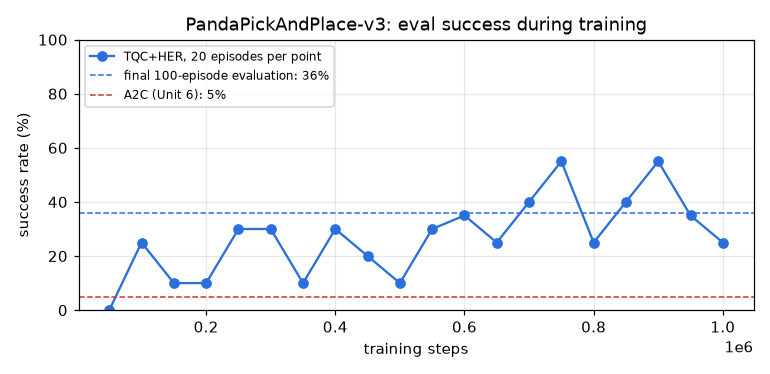
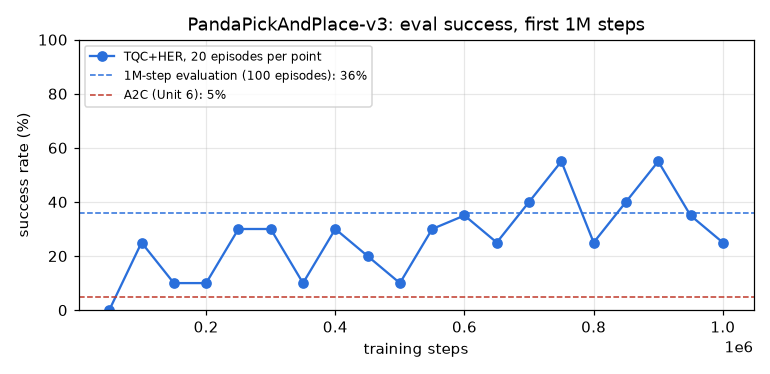
update_model_cards: rebuild the TQC card from scratch with 2M-step / 500-episode results

diff --git a/scripts/update_model_cards.py b/scripts/update_model_cards.py
@@ -4,8 +4,9 @@
     python scripts/update_model_cards.py tqc-PandaPickAndPlace-v3            # print diff + files, change nothing
     python scripts/update_model_cards.py tqc-PandaPickAndPlace-v3 --push     # really upload (needs a write token)
 
-Only models listed in CARDS are supported. The current card is read from the public repo (no token needed for a
-dry run). Existing YAML tags/metadata are kept; the `model-index` metrics are replaced by the values below.
+Only models listed in CARDS are supported. The card is REBUILT FROM SCRATCH (YAML header and text), because
+`huggingface_sb3.package_to_hub` / `rl_zoo3.push_to_hub` overwrite README.md with a generic card every time they run.
+The current Hub card is only read to print the diff (no token needed for a dry run). Run this after every model push.
 `--push` uses the token from `huggingface-cli login` / HF_TOKEN and uploads, in ONE commit: README.md and the
 extra files listed per card. It changes a public page, so look at the dry run first.
 """
@@ -33,30 +34,32 @@ A [TQC](https://arxiv.org/abs/2005.04269) agent with [Hindsight Experience Repla
 [RL-Zoo](https://github.com/DLR-RM/rl-baselines3-zoo) on the sparse-reward robot task
 [`PandaPickAndPlace-v3`](https://panda-gym.readthedocs.io/) (panda-gym 3, gymnasium).
 It is a "beyond the course" follow-up to Unit 6 of the Hugging Face Deep RL Course, where an A2C agent never learned this task.
-**The task is not solved:** the agent succeeds in about a third of the episodes.
+**The task is not solved:** after 2M steps the agent succeeds in a bit under half of the episodes.
 
 ## Results
 
-100 evaluation episodes, deterministic actions, same evaluation seed for both agents, after 1M training steps (seed 0).
-Success is `info["is_success"]` on the last step of the episode.
+Deterministic actions, evaluation seed fixed, seed 0 for training. Success is `info["is_success"]` on the last step of the episode.
+The published model is the run after **2,000,000 training steps** (resumed from checkpoints after disconnects), evaluated on **500 episodes**:
+**44.2% success, mean reward -30.86 +/- 21.70** (95% interval on the success rate about +/- 4.4 points).
 
-| agent | training | success rate | mean reward +/- std | mean episode length |
+| agent | steps | evaluation episodes | success rate | mean reward +/- std |
 |---|---|---|---|---|
-| [A2C (Unit 6)](https://huggingface.co/elliemci/a2c-PandaPickAndPlace-v3) | on-policy, VecNormalize | 5% | -47.69 +/- 10.21 | 47.7 |
-| **TQC + HER (this model)** | off-policy, HER future x4 | **36%** | **-34.08 +/- 21.30** | 34.4 |
+| [A2C (Unit 6)](https://huggingface.co/elliemci/a2c-PandaPickAndPlace-v3) | ~1M | 100 | 5% | -47.69 +/- 10.21 |
+| TQC + HER (earlier checkpoint of this run) | 1M | 100 | 36% | -34.08 +/- 21.30 |
+| **TQC + HER (this model)** | **2M** | **500** | **44.2%** | **-30.86 +/- 21.70** |
 
-One seed and 100 episodes: roughly a +/- 9 point 95% interval on the 36%. The A2C 5% is probably episodes where the target spawns next to the cube
-(not verified).
+The rows use different numbers of evaluation episodes, so compare them loosely. The A2C 5% is probably episodes where the target spawns next to the cube (not verified).
+`results.json` in this repo is the 10-episode check that `package_to_hub` runs when uploading, not these numbers.
 
-![evaluation success during training](eval_curve.png)
+![evaluation success during the first 1M steps](eval_curve.png)
 
-Success rate over 20 evaluation episodes every 50k steps (noisy). The last two points (950k, 1M) come from a run resumed from a checkpoint.
+Success rate over 20 evaluation episodes every 50k steps during the first 1M steps (noisy). The last two points (950k, 1M) come from a resumed run. The 1M to 2M part is not plotted.
 
 ## Training
 
 * Hyperparameters: RL-Zoo `tqc.yml` "her-defaults" (the entry used by `PandaPickAndPlace-v1` there), registered unchanged under the v3 id:
   `MultiInputPolicy`, `HerReplayBuffer(goal_selection_strategy="future", n_sampled_goal=4)`, buffer 1M, batch 2048, gamma 0.95, lr 1e-3, tau 0.05,
-  net `[512, 512, 512]`, 2 critics, 1M steps, no observation normalization.
+  net `[512, 512, 512]`, 2 critics, 2M steps in total, no observation normalization.
 * Versions: rl_zoo3 2.9.2, sb3-contrib 2.9.2, stable-baselines3 2.9.2, panda-gym 3.0.7, gymnasium 1.0.0.
 * Code, config and the Colab notebook: [{github}/tree/main/units/unit6-a2c-robotics]({github}/tree/main/units/unit6-a2c-robotics).
 
@@ -85,7 +88,7 @@ CARDS = {
         extra_tags=["her", "tqc", "panda-gym"],
         model_name="TQC",
         env="PandaPickAndPlace-v3",
-        metrics=[("mean_reward", "-34.08 +/- 21.30"), ("success_rate", "36.00")],
+        metrics=[("mean_reward", "-30.86 +/- 21.70"), ("success_rate", "44.20")],  # 500 episodes, 2M steps
         files={"eval_curve.png": ROOT / "assets/plots/tqc_eval_curve.png",
                "replay.gif": ROOT / "assets/gifs/tqc-PandaPickAndPlace-v3.gif"},
     ),
@@ -97,17 +100,20 @@ def split_card(text):
     return (yaml.safe_load(m.group(1)), m.group(2)) if m else ({}, text)
 
 
-def build(repo_id, spec, old_text):
-    meta, _ = split_card(old_text)
-    meta["tags"] = list(dict.fromkeys(list(meta.get("tags", [])) + spec["extra_tags"]))
-    meta["model-index"] = [{
-        "name": spec["model_name"],
-        "results": [{
-            "task": {"type": "reinforcement-learning", "name": "reinforcement-learning"},
-            "dataset": {"name": spec["env"], "type": spec["env"]},
-            "metrics": [{"type": t, "value": v, "name": t, "verified": False} for t, v in spec["metrics"]],
+def build(repo_id, spec, old_text=None):
+    """Card from scratch: nothing is carried over from the card currently on the Hub."""
+    meta = {
+        "library_name": "stable-baselines3",
+        "tags": [spec["env"], "deep-reinforcement-learning", "reinforcement-learning", "stable-baselines3"] + spec["extra_tags"],
+        "model-index": [{
+            "name": spec["model_name"],
+            "results": [{
+                "task": {"type": "reinforcement-learning", "name": "reinforcement-learning"},
+                "dataset": {"name": spec["env"], "type": spec["env"]},
+                "metrics": [{"type": t, "value": v, "name": t, "verified": False} for t, v in spec["metrics"]],
+            }],
         }],
-    }]
+    }
     front = yaml.safe_dump(meta, sort_keys=False, default_flow_style=False).strip()
     return f"---\n{front}\n---\n{spec['body']}"
 
